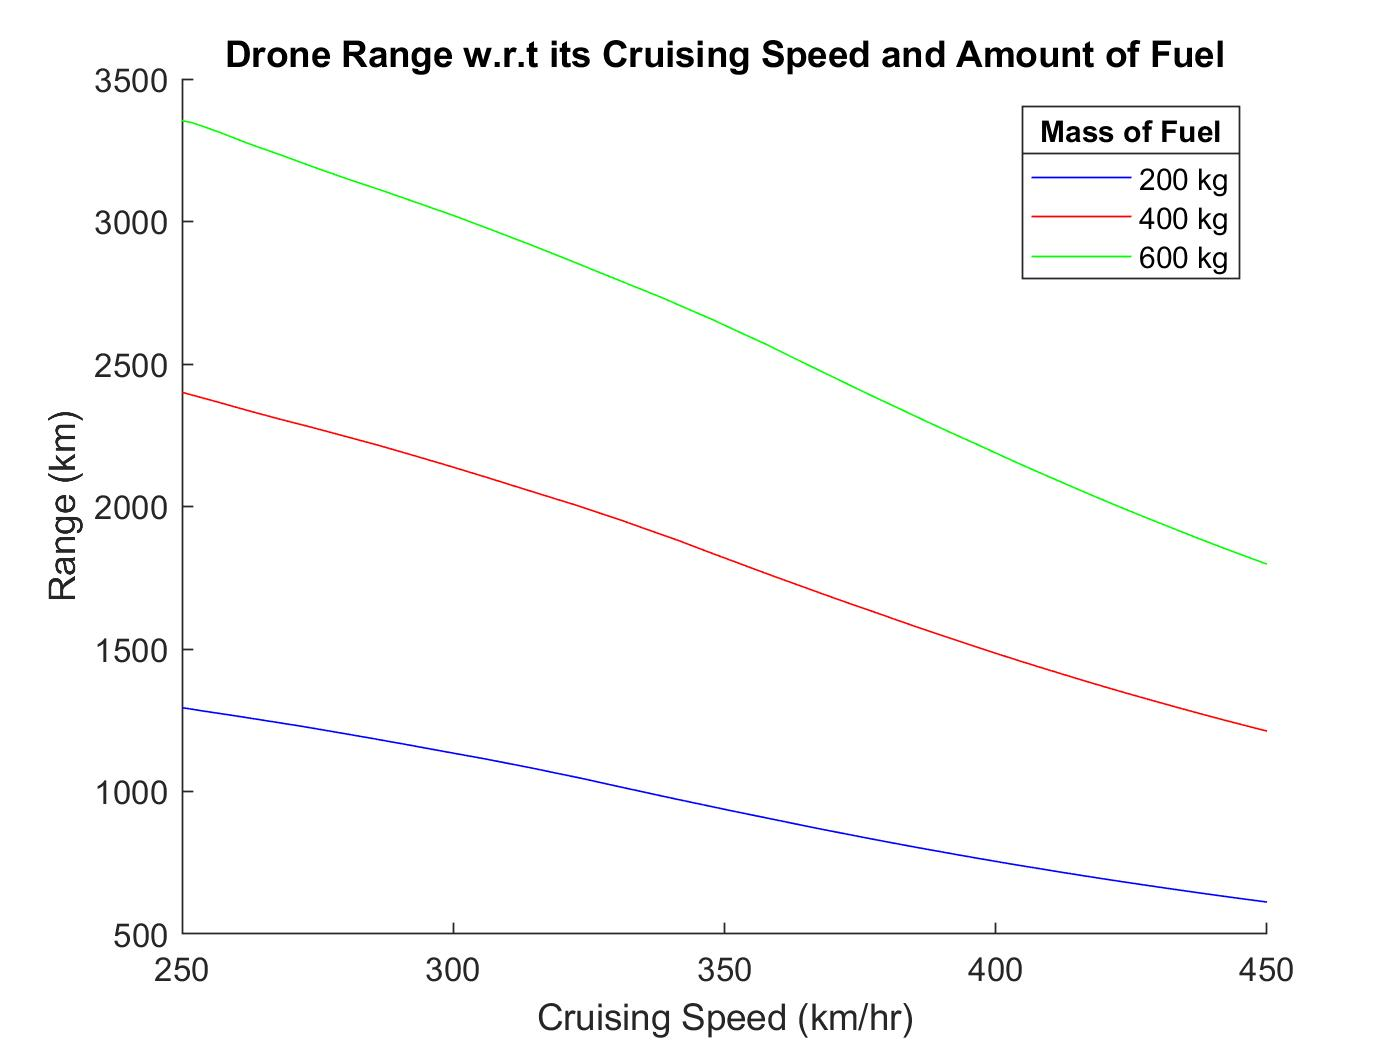
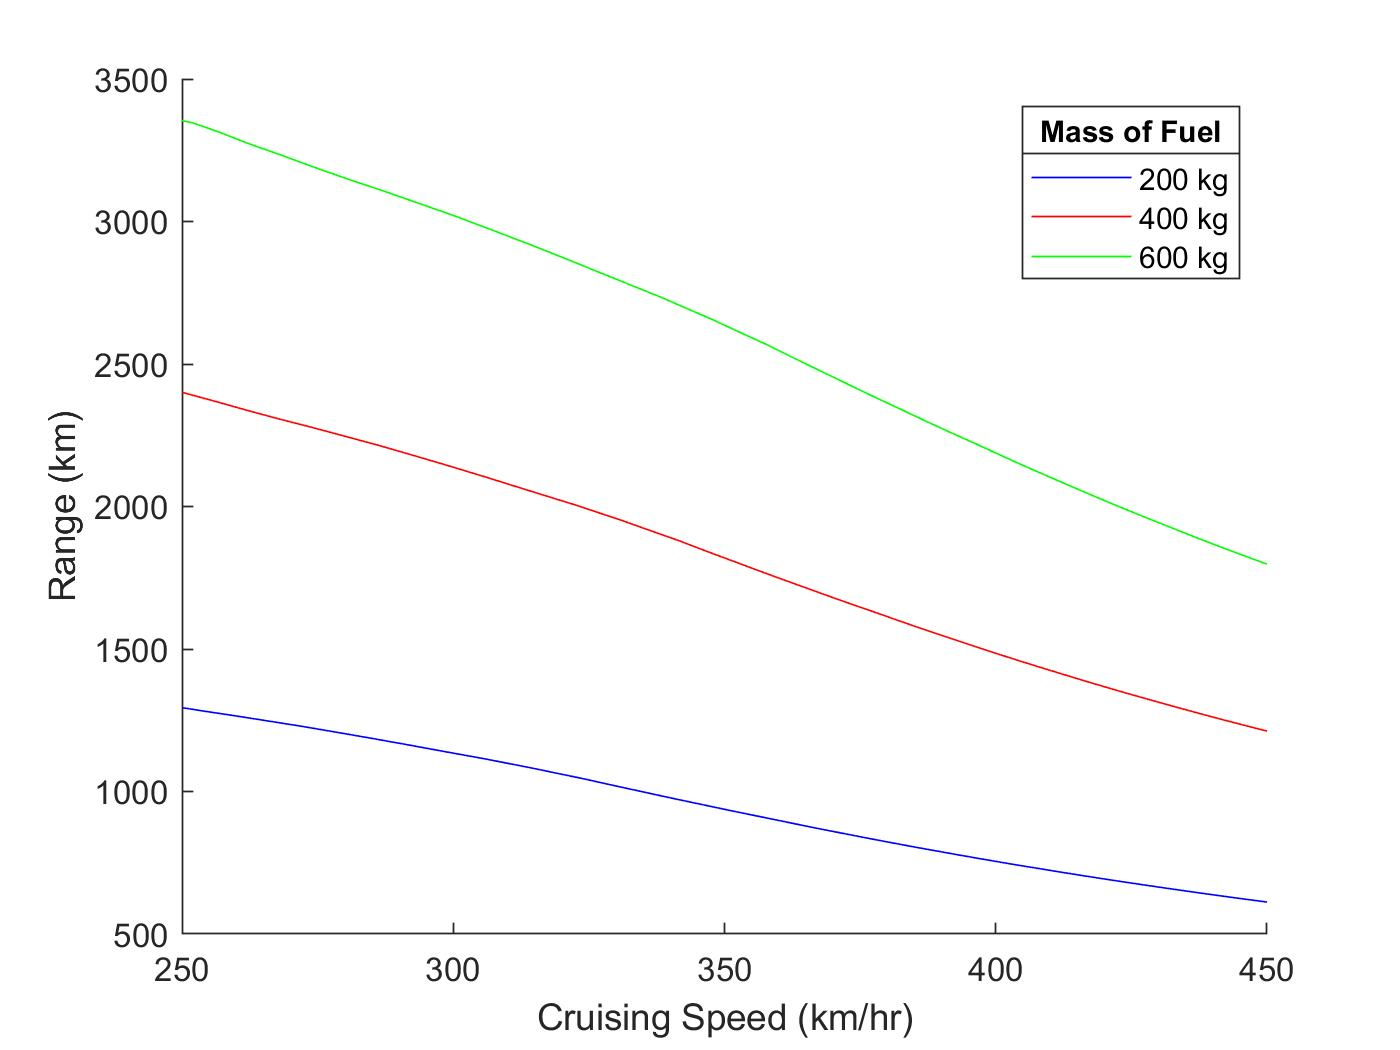
Got rid of title on graph

Changed region(s): [[0.1536, 0.0305, 0.8907, 0.0914]]

diff --git a/Main_part_1.m b/Main_part_1.m
@@ -31,7 +31,7 @@ hold on
 plot(v,range(1,:),'b')  %   plotted seperately only so i could choose the colors
 plot(v,range(2,:),'r')  %   could be plotted easier with plot(v,range)
 plot(v,range(3,:),'g')
-title('Drone Range w.r.t its Cruising Speed and Amount of Fuel')
+% title('Drone Range w.r.t its Cruising Speed and Amount of Fuel')
 xlabel('Cruising Speed (km/hr)')
 ylabel('Range (km)')
 legend('200 kg','400 kg','600 kg')
